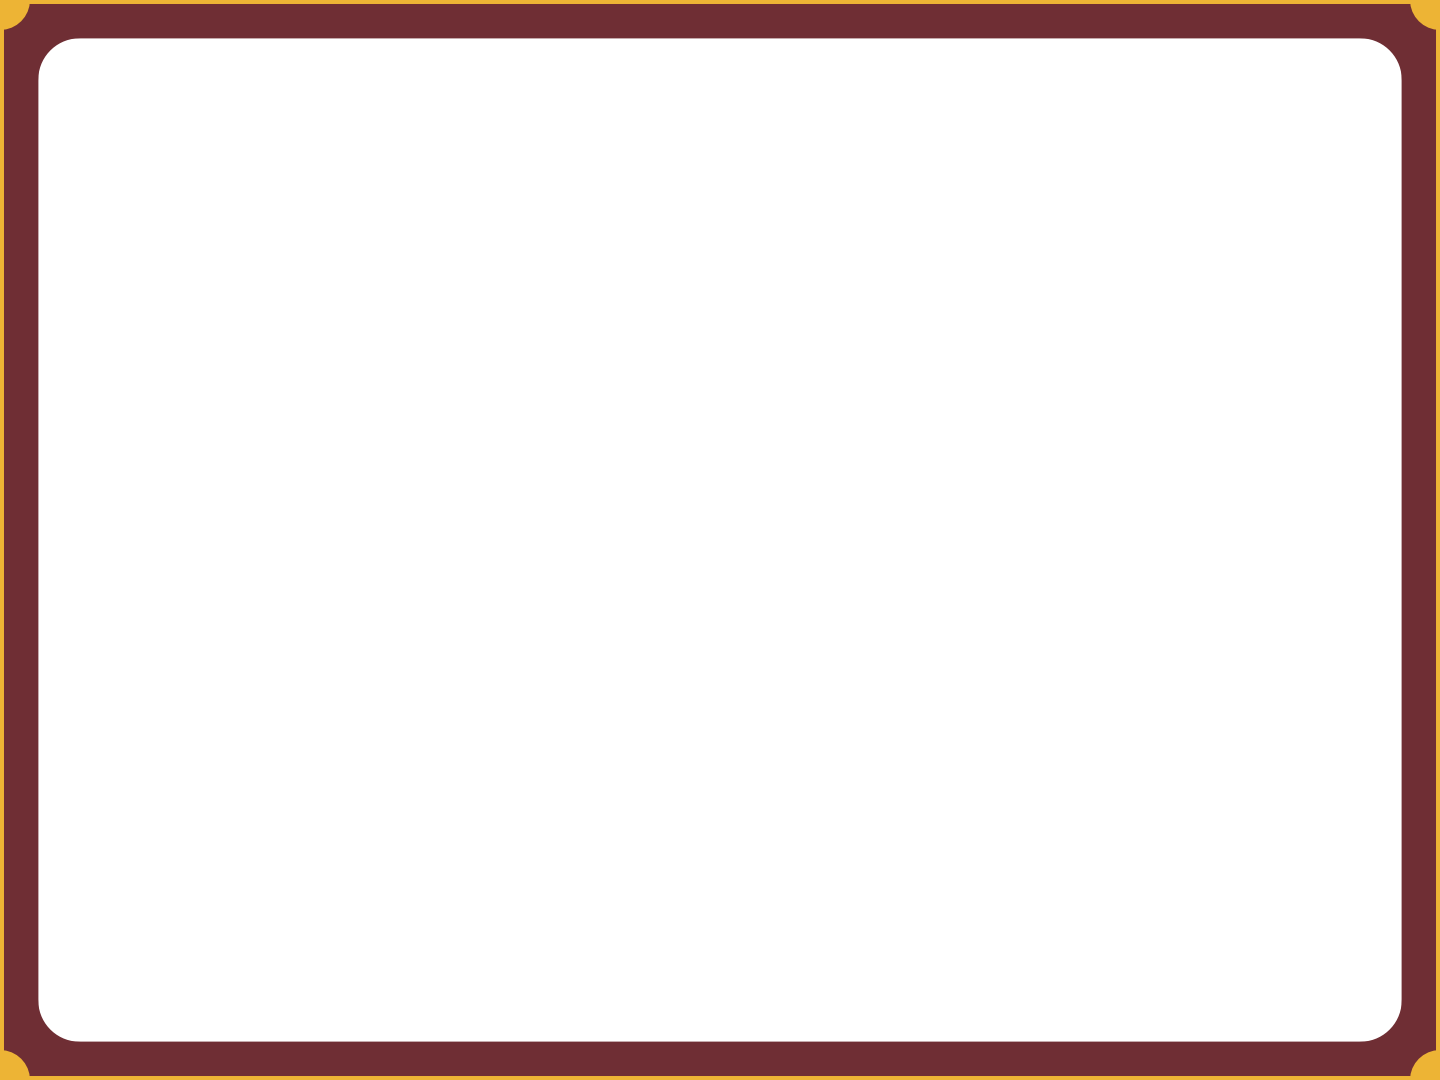
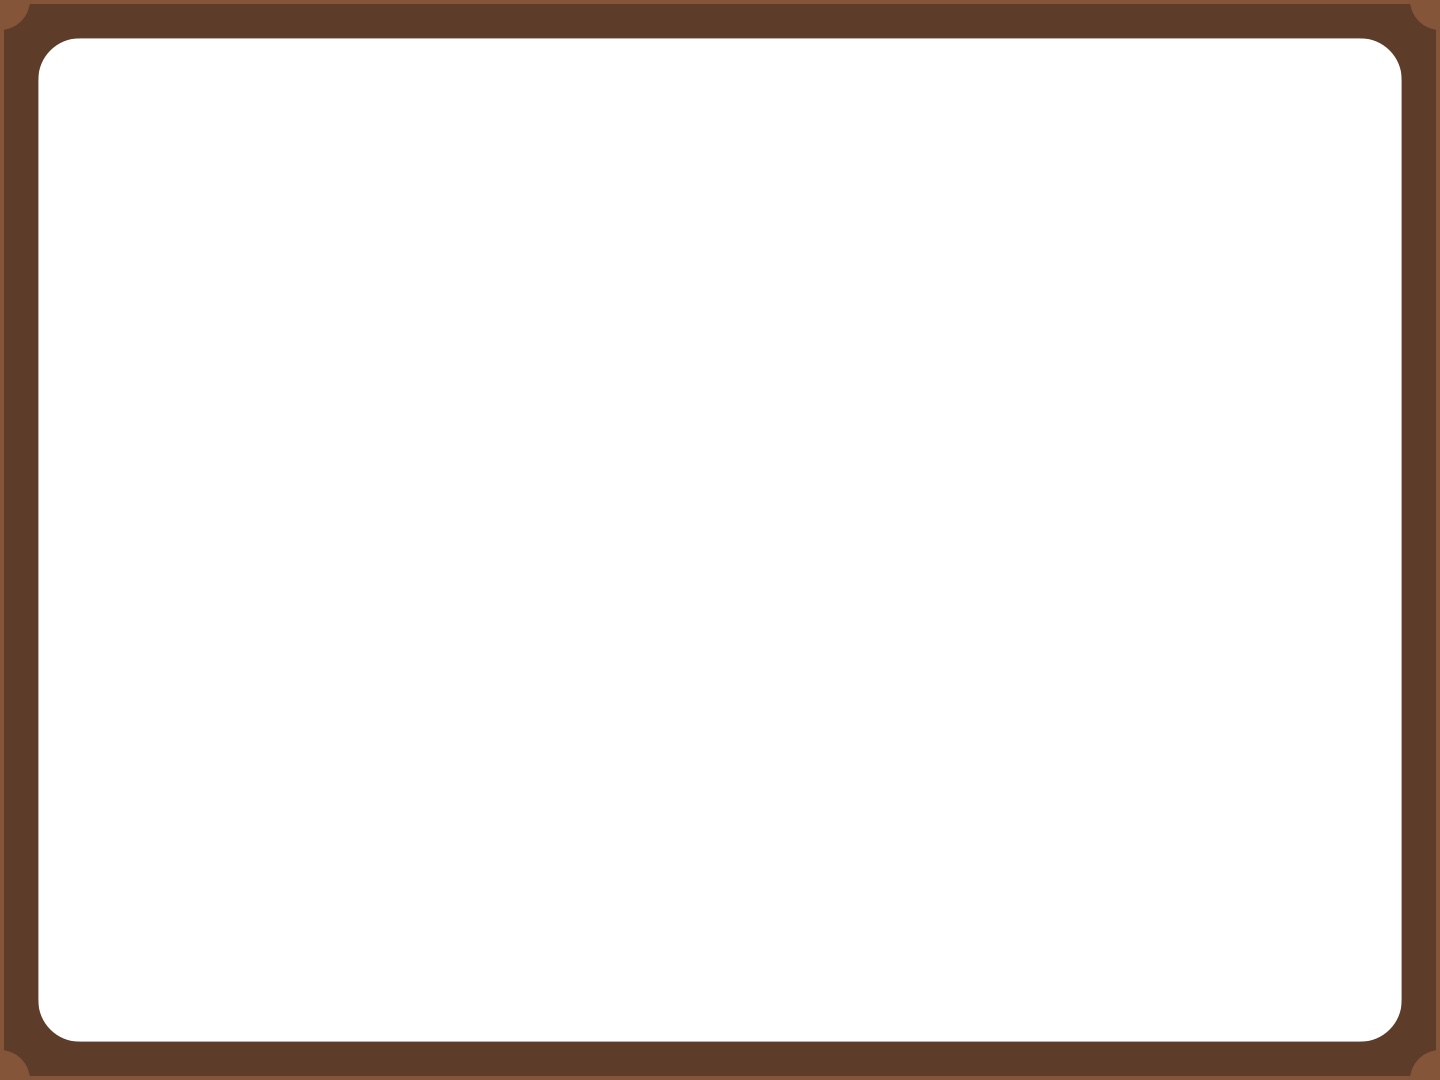
Update the visuals
Update with new visuals and add loading text when loading assets.

Changed region(s): [[0.0, 0.9472, 1.0, 1.0], [0.0, 0.0, 1.0, 0.0306]]

diff --git a/src/main.ts b/src/main.ts
@@ -1,4 +1,4 @@
-import { Application, Assets, Container, Sprite, Text } from 'pixi.js';
+import { Application, Assets, Container, Sprite, Text, TilingSprite } from 'pixi.js';
 
 import {
     CardImageData,
@@ -7,7 +7,7 @@ import { Chips } from './logic/Chips';
 import { PlayState } from './states/Play';
 import { WagerState } from './states/Wager';
 import { Game, GameState } from './util/ClassesAndTypes';
-import { BUTTON_NAMES, MIDDLE, TEXT_SMALL, WINDOW_SIZE } from './visual/UI';
+import { BACKGROUND_NAMES, BUTTON_NAMES, MIDDLE, TEXT_BIG, TEXT_SMALL, WINDOW_SIZE } from './visual/UI';
 
 const BALANCE = 1000;
 const ASSET_PATH = '../../';
@@ -29,7 +29,6 @@ game.updateText = () => {
 
 const width = 1440;
 const height = 1080;
-
 
 export const app = new Application<HTMLCanvasElement>({
     width, height,
@@ -66,6 +65,10 @@ window.onload = async (): Promise<void> => {
     document.body.appendChild(app.view);
     game.app = app;
     window.addEventListener('resize', resize);
+
+    const loadingContainer = new Container();
+    loadingContainer.addChild(addLoadingText());
+    game.app.stage.addChild(loadingContainer);
     
     createDeck();
     CardImageData.forEach((name: string) => createAsset(name, 'cards'));
@@ -76,18 +79,22 @@ window.onload = async (): Promise<void> => {
     
     BUTTON_NAMES.forEach((name: string) => createAsset(name, 'ui'));
 
+    BACKGROUND_NAMES.forEach((name: string) => createAsset(name, 'background'));
+
     createAsset('back_card', 'cards');
-    createAsset('background_edge', 'background');
 
     game.textures = await Assets.load([
         ...chipNames,
         ...CardImageData,
         ...BUTTON_NAMES,
+        ...BACKGROUND_NAMES,
         'back_card',
-        'background_edge',
     ]);
 
     resize();
+
+    loadingContainer.destroy();
+
     game.app.stage.addChild(game.backgroundContainer);
     createBackgroundAssets();
     
@@ -135,9 +142,21 @@ function addResetButton() {
 }
 
 function createBackgroundAssets() {
-    const edge = Sprite.from(game.textures.background_edge);
+    const tile = new TilingSprite(
+        game.textures.background_tile,
+        WINDOW_SIZE.x,
+        WINDOW_SIZE.y,
+    );
+    game.backgroundContainer.addChild(tile);
 
+    const edge = Sprite.from(game.textures.background_edge);
     game.backgroundContainer.addChild(edge);
+
+    const logo = Sprite.from(game.textures.background_logo);
+    logo.anchor.set(0.5);
+    logo.x = MIDDLE.x;
+    logo.y = MIDDLE.y;
+    game.backgroundContainer.addChild(logo);
 }
 
 function addText() {
@@ -159,3 +178,19 @@ function addText() {
     game.wagerText.style.stroke = TEXT_SMALL.stroke;
     game.textContainer.addChild(game.wagerText);
 }
+
+function addLoadingText() {
+    const loadingText: Text = new Text('Loading,\nplease wait...');
+
+    loadingText.style.fontSize = TEXT_BIG.fontSize;
+    loadingText.style.fill = TEXT_BIG.fill;
+    loadingText.style.strokeThickness = TEXT_BIG.strokeThickness;
+    loadingText.style.stroke = TEXT_BIG.stroke;
+    loadingText.anchor.x = 0.5;
+    loadingText.anchor.y = 0.5;
+    loadingText.x = MIDDLE.x;
+    loadingText.y = MIDDLE.y;
+    
+    return loadingText;
+}
+

diff --git a/src/states/Wager.ts b/src/states/Wager.ts
@@ -144,8 +144,6 @@ export class WagerState extends GameState {
         const dealButton = Sprite.from(this.game.textures.deal_button);
 
         dealButton.anchor.set(0.5);
-        dealButton.scale.x = 1;
-        dealButton.scale.y = 1;
         dealButton.x = MIDDLE.x;
         dealButton.y = MIDDLE.y;
         dealButton.interactive = true;

diff --git a/src/visual/UI.ts b/src/visual/UI.ts
@@ -17,6 +17,12 @@ export const BUTTON_NAMES = [
     'reset_button',
 ];
 
+export const BACKGROUND_NAMES = [
+    'background_edge',
+    'background_tile',
+    'background_logo',
+];
+
 export const TEXT_BIG = {
     fontSize: 96,
     fill: '#fffcf5',
